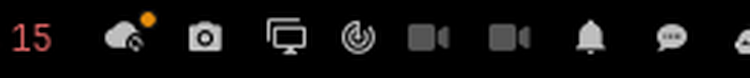
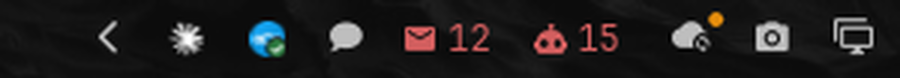
Docs: bar screenshot with the aMail counters, root preview, dependencies and removal sections
Claude-Session: https://claude.ai/code/session_01TLaaMbiQTf3cXfkusnH738

diff --git a/README.md b/README.md
@@ -107,6 +107,16 @@ amail-plugin server logs   # server mode only
 
 **Files.** `~/.config/amail/plugin.json` (mode, URL, settings), `~/.config/amail/token` (0600), `~/.local/state/amail/state.json` (what the bar renders: subjects, senders, counts, ids; never bodies), and in server mode `~/.config/amail/server.env` plus `~/.local/share/amail/` (database and a private copy of the server). Message bodies are fetched on demand when you open a thread and are not written to disk by the plugin.
 
+**Dependencies.** Client mode needs a JavaScript runtime for the plugin daemon: `node` (≥ 22) or `bun`, found on the usual paths including mise shims. Server mode needs `node` ≥ 22 and `npm` (the aMail server is Node; `better-sqlite3` ships prebuilt binaries), `openssl` for secret generation, `systemd --user`, and `rsync` (optional, `cp` fallback). The CLI uses `jq`, `curl`, and `gum` (optional, for the token prompt); toasts use `notify-send`; the web client opens through `omarchy-launch-webapp`. Everything the plugin writes lives under `~/.config/amail`, `~/.local/state/amail`, and `~/.local/share/amail`; it never edits Hyprland or Omarchy configuration.
+
+**Remove.**
+
+```sh
+omarchy plugin remove io.github.nova-centauri.amail   # the widget and daemon
+amail-plugin server uninstall                          # server mode only: stops and removes the systemd unit
+rm -rf ~/.config/amail ~/.local/state/amail ~/.local/share/amail   # optional: token, state, local mail database
+```
+
 **IPC.** `omarchy-shell io.github.nova-centauri.amail status|open|close|toggle|refresh|web|counts`, `goto <conversationId>` to open one conversation (what a toast's Open button does), `view unread|unanalyzed|all`, `setup`, `snapshot <file.png>` to render the open panel to a PNG, and `debug` for geometry and job state.
 
 ## Quick start (Docker)
